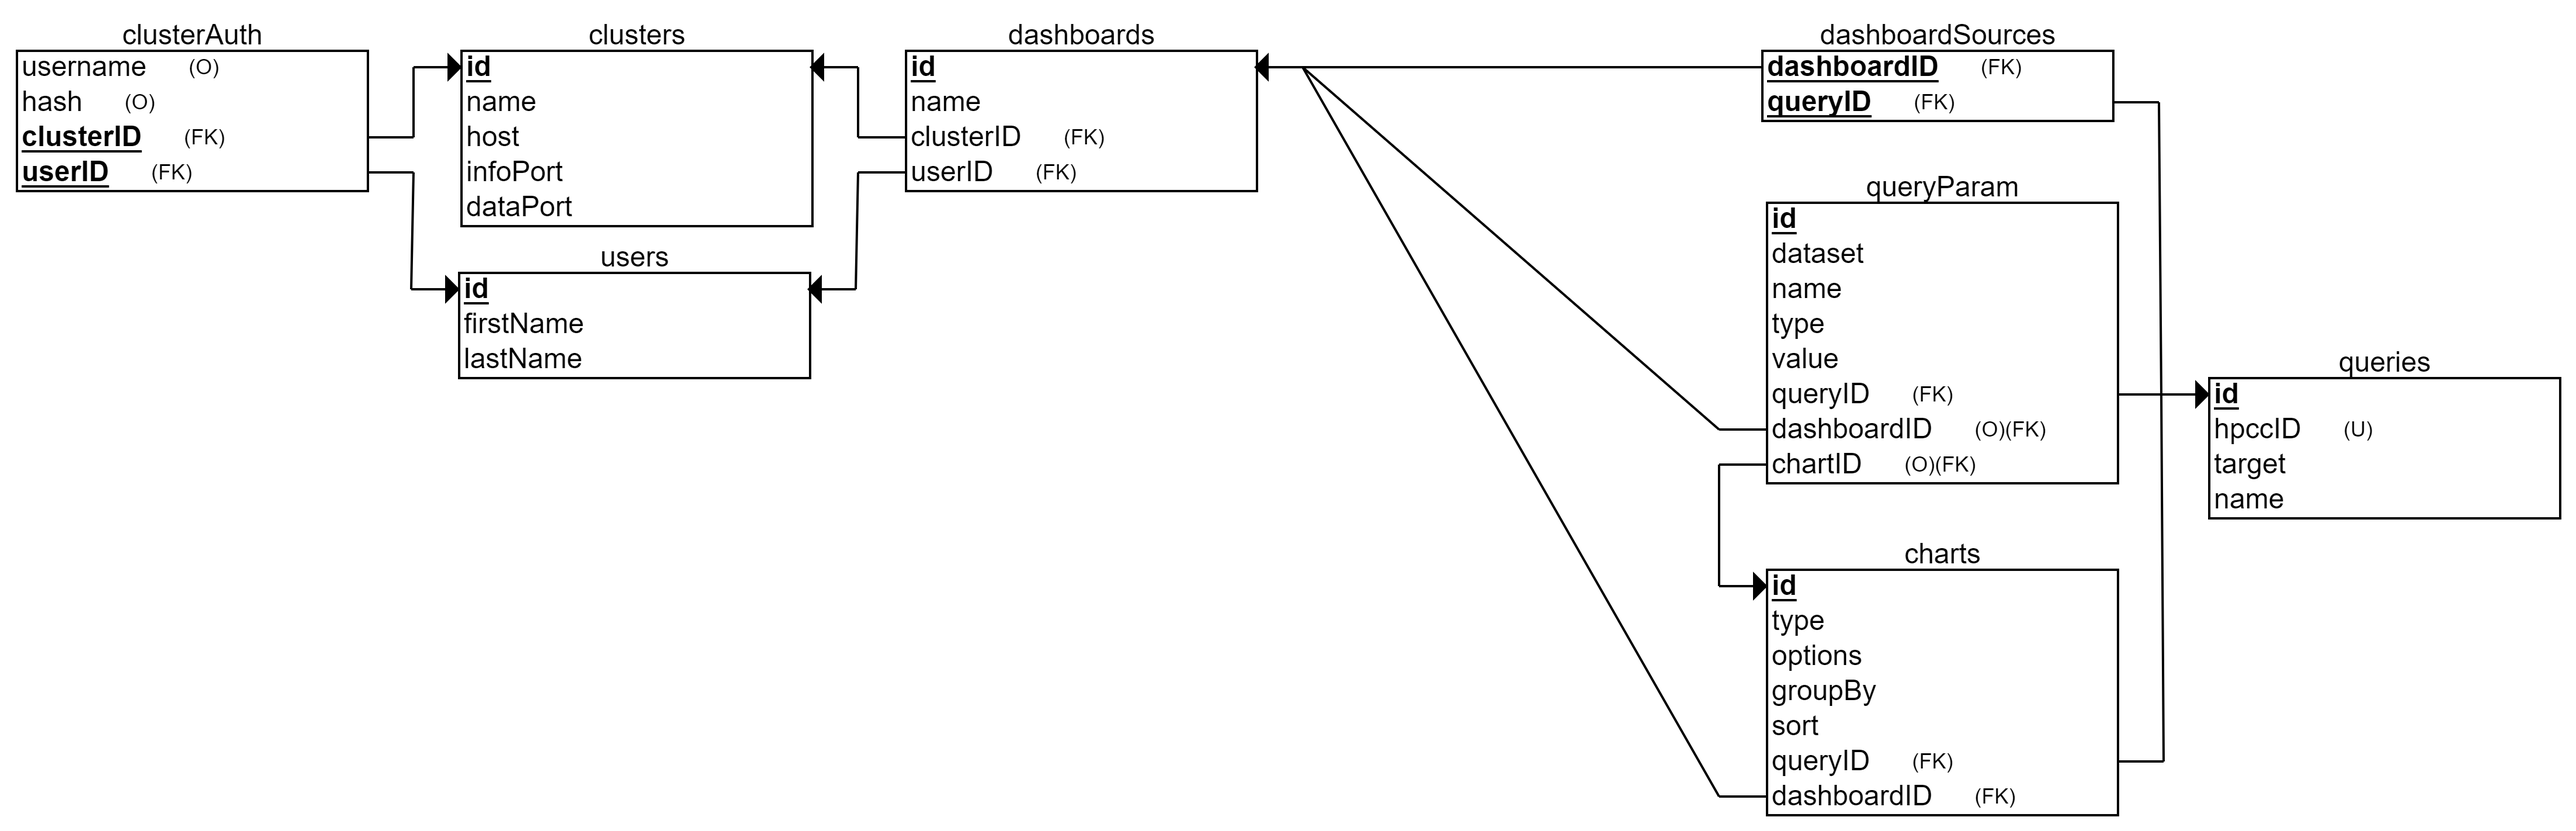
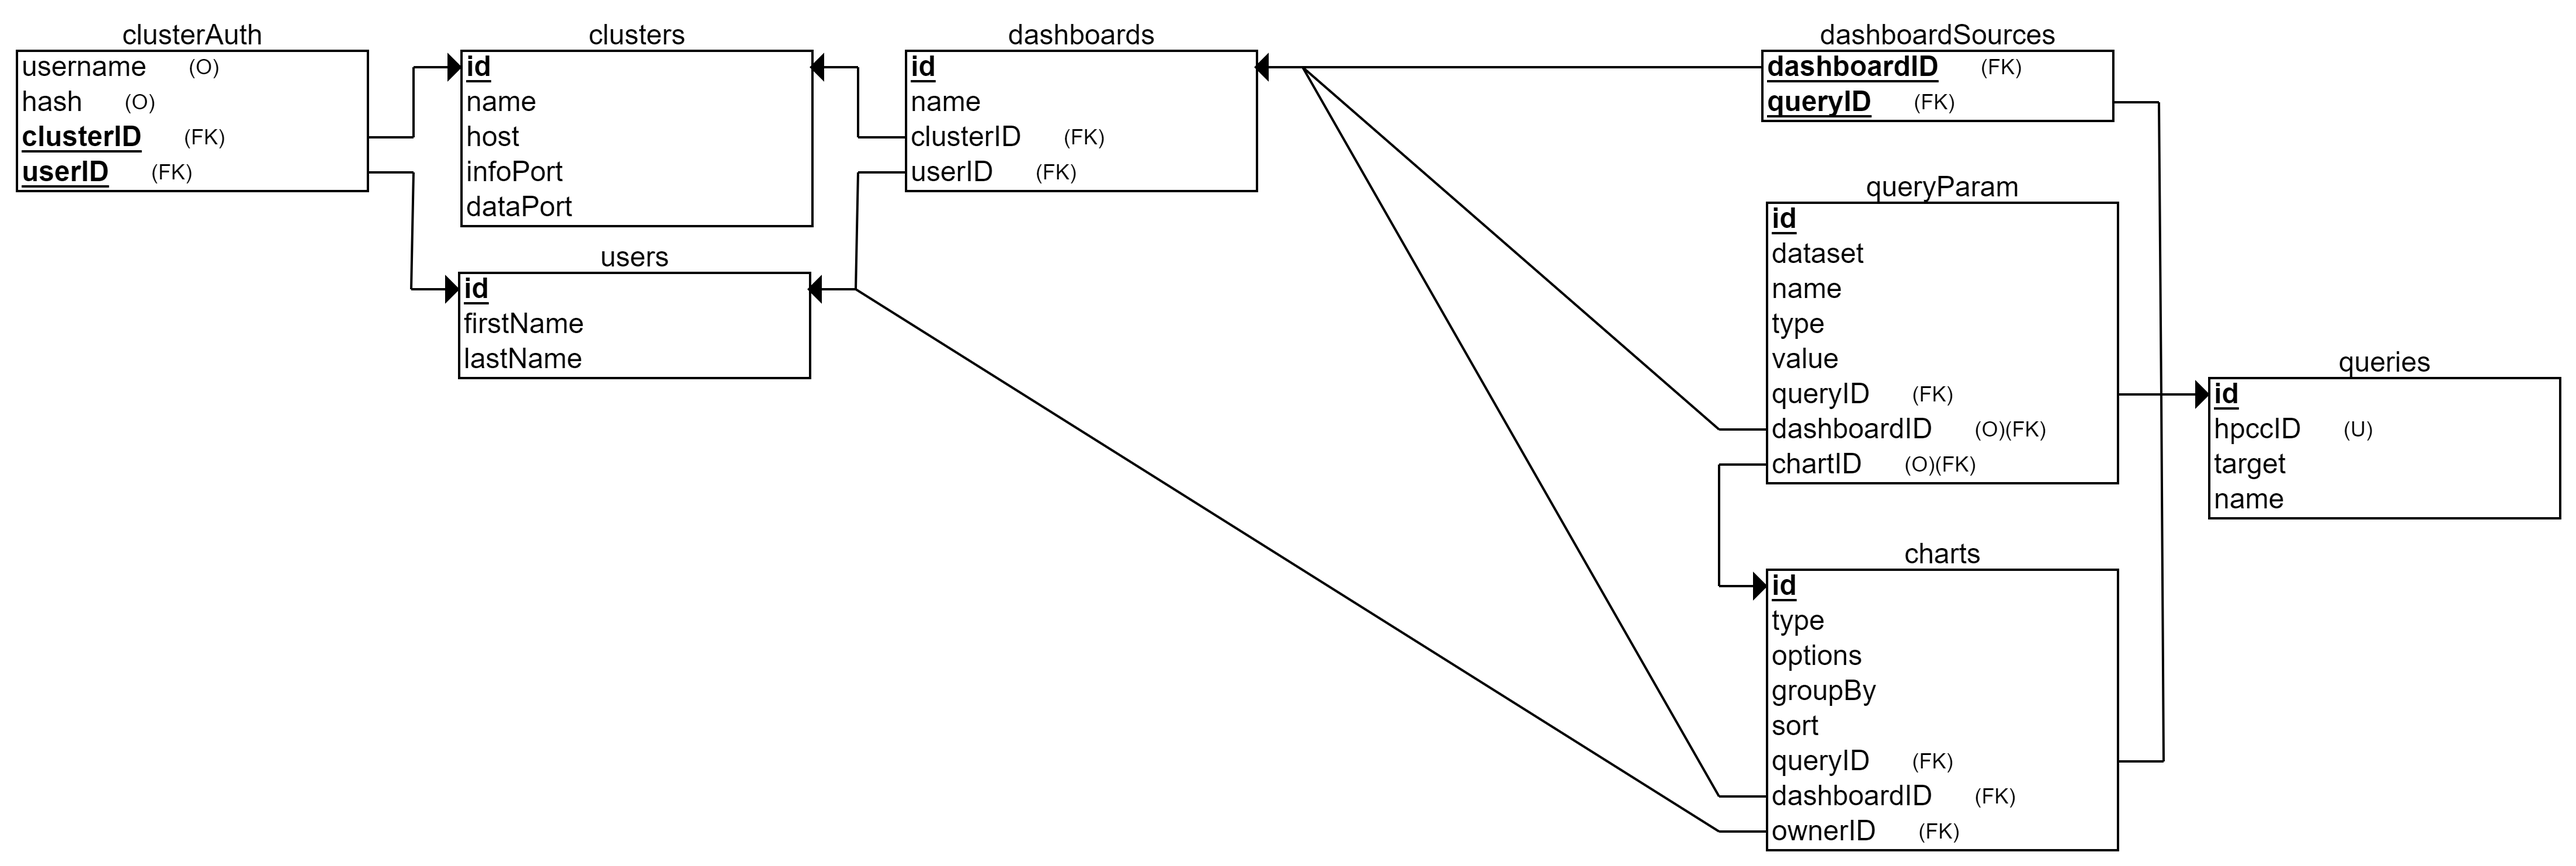
Add ownerID to chart and change chart update and delete api routes to confirm ownership of chart before making changes to DB

diff --git a/server/src/routes/api/chart.js b/server/src/routes/api/chart.js
@@ -2,6 +2,7 @@ const router = require('express').Router();
 const {
   createChart,
   deleteChartByID,
+  getChartOwnerByID,
   getChartsByDashboardAndQueryID,
   getChartsByDashboardID,
   updateChartByID,
@@ -53,11 +54,14 @@ router.get('/all', async (req, res) => {
 });
 
 router.post('/create', async (req, res) => {
-  const { chart, dashboardID, queryID } = req.body;
+  const {
+    body: { chart, dashboardID, queryID },
+    user: { id: userID },
+  } = req;
   let newChart, chartParams;
 
   try {
-    newChart = await createChart(chart, dashboardID, queryID);
+    newChart = await createChart(chart, dashboardID, queryID, userID);
 
     await createQueryParams(queryID, chart, null, newChart.id);
 
@@ -74,17 +78,25 @@ router.post('/create', async (req, res) => {
 });
 
 router.put('/update', async (req, res) => {
-  const { chart, dashboardID } = req.body;
-  let charts, promises;
+  const {
+    body: { chart, dashboardID },
+    user: { id: userID },
+  } = req;
+  let dbChart, charts, promises;
 
   try {
-    await updateChartByID(chart);
+    dbChart = await getChartOwnerByID(chart.id, userID);
 
-    promises = chart.params.map(async ({ id, value }) => {
-      return await updateQueryParam(id, value);
-    });
+    // User is the owner of the chart
+    if (Object.keys(dbChart).length > 0) {
+      await updateChartByID(chart);
 
-    await Promise.all(promises);
+      promises = chart.params.map(async ({ id, value }) => {
+        return await updateQueryParam(id, value);
+      });
+
+      await Promise.all(promises);
+    }
 
     charts = await getChartsByDashboardID(dashboardID);
   } catch (err) {
@@ -115,27 +127,35 @@ router.put('/update', async (req, res) => {
 });
 
 router.delete('/delete', async (req, res) => {
-  const { chartID, dashboardID, queryID } = req.query;
-  let charts, numOfCharts;
+  const {
+    query: { chartID, dashboardID, queryID },
+    user: { id: userID },
+  } = req;
+  let chart, charts, numOfCharts;
 
   try {
-    await deleteChartByID(chartID);
+    chart = await getChartOwnerByID(chartID, userID);
 
-    // Determine if any other charts in the application are using the same query
-    numOfCharts = await getChartsByDashboardAndQueryID(null, queryID);
+    // User is the owner of the chart
+    if (Object.keys(chart).length > 0) {
+      await deleteChartByID(chartID);
 
-    // No other charts in the application are using the same query
-    if (numOfCharts === 0) {
-      await deleteQueryByID(queryID);
-    } else {
-      // Determine if any other charts on the same dashboard are using the same query
-      numOfCharts = await getChartsByDashboardAndQueryID(dashboardID, queryID);
+      // Determine if any other charts in the application are using the same query
+      numOfCharts = await getChartsByDashboardAndQueryID(null, queryID);
 
-      // No other charts on the dashboard are using the same query
+      // No other charts in the application are using the same query
       if (numOfCharts === 0) {
-        // Delete dashboard Source and 'Dashboard Level' params
-        await deleteDashboardSource(dashboardID, queryID);
-        await deleteQueryParams(null, null, dashboardID, queryID);
+        await deleteQueryByID(queryID);
+      } else {
+        // Determine if any other charts on the same dashboard are using the same query
+        numOfCharts = await getChartsByDashboardAndQueryID(dashboardID, queryID);
+
+        // No other charts on the dashboard are using the same query
+        if (numOfCharts === 0) {
+          // Delete dashboard Source and 'Dashboard Level' params
+          await deleteDashboardSource(dashboardID, queryID);
+          await deleteQueryParams(null, null, dashboardID, queryID);
+        }
       }
     }
 

diff --git a/server/src/utils/chart.js b/server/src/utils/chart.js
@@ -39,8 +39,10 @@ const getChartsByDashboardID = async dashboardID => {
   return charts;
 };
 
-const createChart = async (chart, dashboardID, queryID) => {
-  let [err, newChart] = await awaitHandler(chartModel.create({ ...chart, dashboardID, queryID }));
+const createChart = async (chart, dashboardID, queryID, userID) => {
+  let [err, newChart] = await awaitHandler(
+    chartModel.create({ ...chart, dashboardID, queryID, ownerID: userID }),
+  );
 
   // Return error
   if (err) throw err;
@@ -67,6 +69,18 @@ const getChartByID = async chartID => {
   let query = unNestSequelizeObj(chart.query);
 
   return { ...chart, query };
+};
+
+const getChartOwnerByID = async (chartID, ownerID) => {
+  let [err, chart] = await awaitHandler(chartModel.findOne({ where: { id: chartID, ownerID } }));
+
+  // Return error
+  if (err) throw err;
+
+  // Get nested objects
+  chart = unNestSequelizeObj(chart);
+
+  return chart;
 };
 
 const getChartsByDashboardAndQueryID = async (dashboardID, queryID) => {
@@ -109,6 +123,7 @@ module.exports = {
   deleteChartByID,
   getChartsByDashboardAndQueryID,
   getChartByID,
+  getChartOwnerByID,
   getChartsByDashboardID,
   updateChartByID,
 };

diff --git a/server/src/models/chart.js b/server/src/models/chart.js
@@ -24,7 +24,7 @@ module.exports = (sequelize, DataTypes) => {
     { charset: 'utf8', collate: 'utf8_general_ci', timestamps: false },
   );
 
-  chart.associate = ({ dashboard, query }) => {
+  chart.associate = ({ dashboard, query, user }) => {
     // One-to-One relation between charts and dashboards
     // Creates 'dashboardID' foreign key on chart model
     chart.belongsTo(dashboard, {
@@ -37,6 +37,12 @@ module.exports = (sequelize, DataTypes) => {
     chart.belongsTo(query, {
       foreignKey: { name: 'queryID', allowNull: false },
       onDelete: 'cascade',
+    });
+
+    // One-to-One relation between charts and users
+    // Creates 'ownerID' foreign key on chart model
+    chart.belongsTo(user, {
+      foreignKey: { name: 'ownerID', allowNull: false },
     });
   };
 
